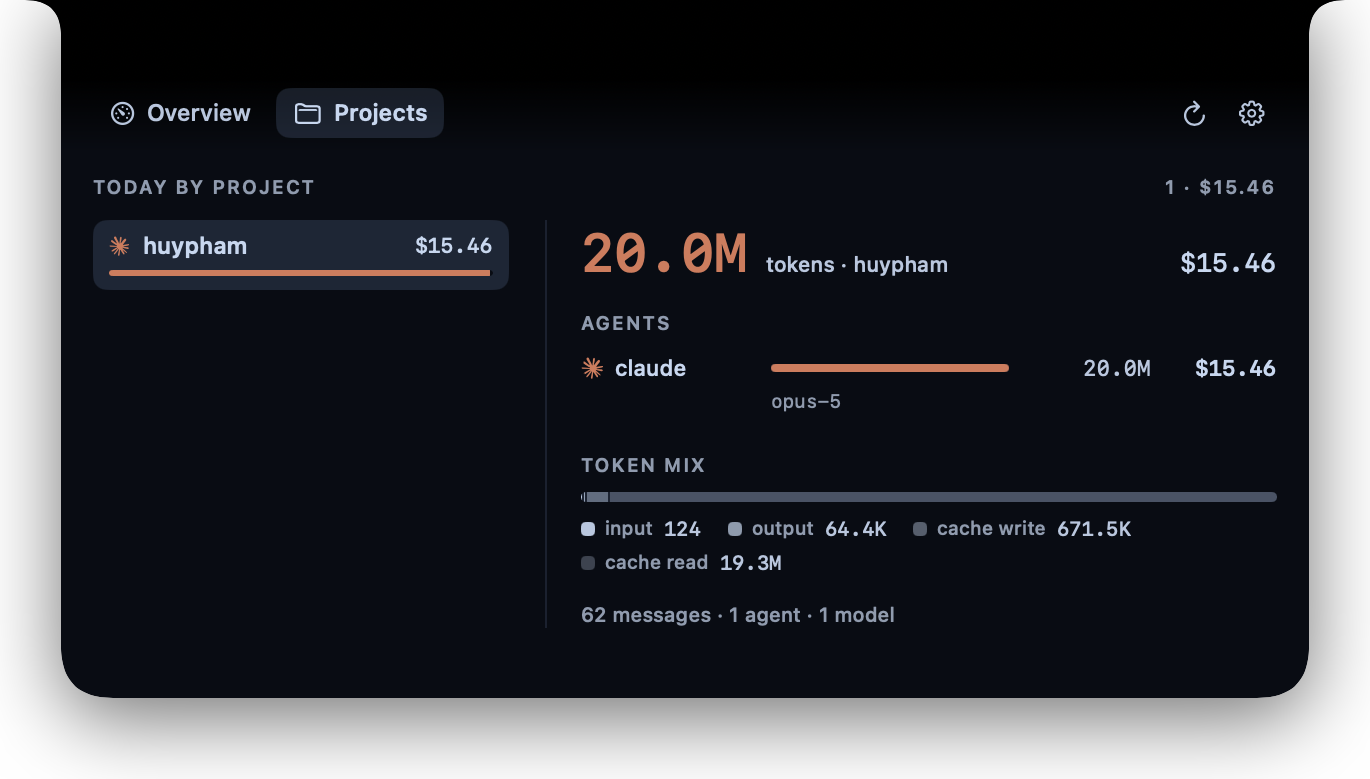
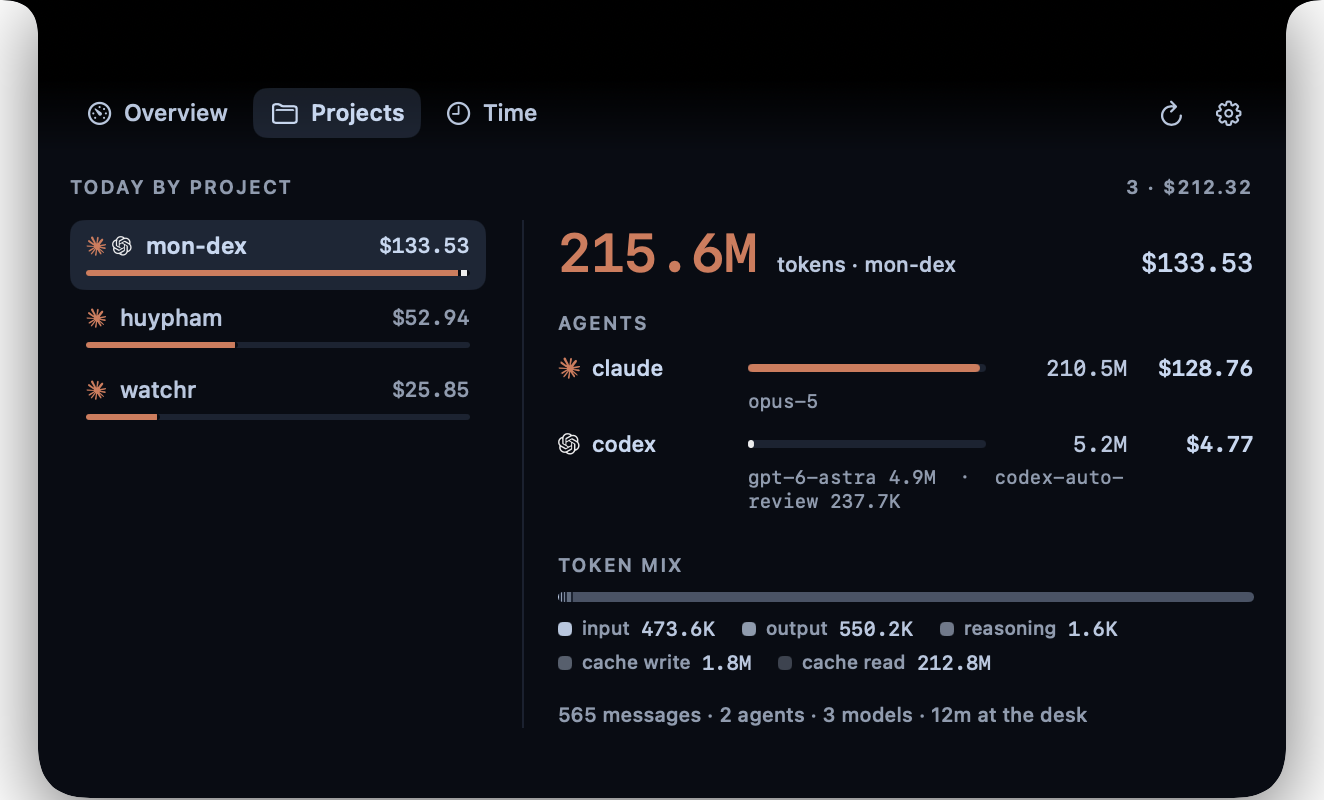
README and notes: the join, the grid, and the file that got eaten
Both stale screenshots retaken — Projects now carries "12m at the desk"
on its last line, and Time is shown over seven days with the weekday
grid under the day chart.

Taking that Projects shot found a regression from the same change:
putting the desk figure beside the hero wrapped the token count onto
two lines and truncated the project name. It sits with the other
derived facts in the footer now, which is where it belonged anyway.

Privacy gained the two claims it was missing: project attribution comes
from session files the agents write, never from watching windows, and
the call check asks CoreAudio whether the input device is running — a
fact about the device, so no consent and no orange dot. No audio is
ever opened, and it could not be.

The notes gained three sections, the first of which is the one worth
reading: a schema change ate a real history file, because Swift's
generated Decodable ignores property defaults and the loader answered
by starting over.

Changed region(s): [[0.0, 0.0, 1.0, 1.0], [0.4026, 0.2773, 0.7122, 0.4929]]

diff --git a/Sources/NotchMon/UI/ProjectsPage.swift b/Sources/NotchMon/UI/ProjectsPage.swift
@@ -184,16 +184,6 @@ private struct ProjectDetail: View {
                 .lineLimit(1)
                 .truncationMode(.middle)
             Spacer(minLength: 8)
-            if desk > 0 {
-                Text(desk.clockText)
-                    .font(Typeface.number(13, weight: .medium))
-                    .monospacedDigit()
-                    .foregroundStyle(Palette.secondaryText)
-                Text("at the desk")
-                    .font(Typeface.label(10))
-                    .foregroundStyle(Palette.faintText)
-                    .padding(.trailing, 4)
-            }
             Text(project.cost.money)
                 .font(Typeface.number(13, weight: .medium))
                 .monospacedDigit()
@@ -231,10 +221,14 @@ private struct ProjectDetail: View {
         let models = project.modelCount
         var line = "\(project.messages) messages · \(agents) agent\(agents == 1 ? "" : "s")"
             + " · \(models) model\(models == 1 ? "" : "s")"
-        // Quoted only past a quarter of an hour. Ten minutes at the desk turns
-        // any spend into a rate that sounds like a salary and means nothing.
+        // Here rather than beside the figure above it. The hero row is tokens,
+        // name and cost, and a fourth item wrapped the number onto two lines
+        // and truncated the name — the derived facts belong together anyway.
+        if desk > 0 { line += " · \(desk.clockText) at the desk" }
+        // The rate only past a quarter of an hour. Ten minutes turns any spend
+        // into a number that sounds like a salary and means nothing.
         if desk >= 15 * 60 {
-            line += " · \((project.cost / (desk / 3600)).money) an hour at the desk"
+            line += " · \((project.cost / (desk / 3600)).money) an hour"
         }
         return line
     }

diff --git a/docs/notes.md b/docs/notes.md
@@ -161,3 +161,52 @@ off in a week.
   interrupting are two different consents and only the second one is annoying.
   Under it, the loudest size allowed is itself a choice, so someone who never
   wants the panel can cap it at the pill.
+
+## A schema change ate the history file
+
+Swift's generated `Decodable` **ignores property defaults**. A missing key
+throws, whatever `= [:]` says in the declaration — which means every field ever
+added to `WorkDay` silently invalidated every day written before it. The loader
+was forgiving and answered by starting over, and the next save overwrote the
+file. Adding per-project seconds destroyed a real one that way.
+
+- **The fix that matters is not the decoder.** `WorkDay` now decodes field by
+  field with `decodeIfPresent`, so a new field is additive and old days come
+  back missing it — which is what they are. But the file is also **moved aside**
+  before starting over now. Starting over is still right; refusing to launch
+  would cost the tab entirely. It must simply never be the same act as deleting
+  the evidence, and one rename is the whole difference between losing a chart
+  and losing the data behind it.
+- **Anything Codable that a user's data lands in wants the same treatment.**
+  Quota history has the identical shape and the identical trap.
+
+## Where an hour goes
+
+Desk time is attributed to a project by the session file that was written to
+most recently, keyed by `ProjectUsage.canonical` — the same key the Projects
+page folds its buckets under, because an hour and a dollar must land in the same
+bucket before either can be divided into the other.
+
+- **Claude names its session directory after the workspace** and encodes the
+  path into that name, so the path is the answer. **Codex files by date** and
+  keeps `cwd` inside the file, so the file is read once and remembered.
+- A tick with no agent writing anywhere is left **unattributed** rather than
+  filed under a guess, which is why the parts never sum to the day. The CSV
+  names the remainder rather than dropping it.
+- The whole thing needs no new permission and no new watcher: these are the
+  files `AgentActivity` is already told about.
+
+## Standing down during a call
+
+`kAudioDevicePropertyDeviceIsRunningSomewhere` on the default **input** device
+is a fact about the device rather than about what is being recorded, so it needs
+no microphone consent and raises no prompt.
+
+- **A rung reached during a call is not marked as fired.** Deferring the nudge
+  would deliver a stale one — forty minutes of meeting and the hour arrives at a
+  hundred minutes still saying "1h00m". The rung stays due, and whatever is
+  current fires on the first tick afterwards.
+- It cannot tell a meeting from a voice memo, and it reads true for as long as
+  *any* app holds the input — one that never lets go would silence the reminders
+  for good. Hence a switch rather than a law, a log line on every change so a
+  silence can be traced, and an unreadable device counting as "not a call".

diff --git a/README.md b/README.md
@@ -67,15 +67,17 @@ the window that runs out soonest, and a year of activity.
 
 **Projects** — today's spend split by repository, then by agent, then by model,
 with the token mix underneath. Cache reads are usually most of the volume, and a
-bare token count hides that.
+bare token count hides that. The last line carries the join: how long you were
+at the desk on this project, and what an hour of it cost.
 
-<img src="docs/images/projects.png" width="700" alt="Projects: huypham at $15.46, 20.0M tokens, claude on opus-5, token mix showing 19.3M cache read against 124 input.">
+<img src="docs/images/projects.png" width="700" alt="Projects: mon-dex at $133.53 worked by both claude and codex, 215.6M tokens, token mix showing 212.8M cache read, and a footer reading 565 messages, 2 agents, 3 models, 12m at the desk.">
 
 **Time** — how long today ran, when it ran, and how long the longest unbroken
 stretch was. The strip carries the same figure all day, so the third hour is not
-a surprise at the end of it.
+a surprise at the end of it. Past a week it also draws the weekday grid: which
+hours of which days the work actually happens in.
 
-<img src="docs/images/time.png" width="700" alt="Time: 5h12m at the desk today, a bar per clock hour with the peak at 18:00, longest unbroken stretch 2h00m, 18 separate sits, first at the desk 13:39.">
+<img src="docs/images/time.png" width="700" alt="Time over seven days: 35m at the desk today, a bar per day with yesterday at 6h42m against an average of 3h38m, a weekday-by-hour grid whose busiest cell is Thursday 18:00, and the day's figures below.">
 
 **Breaks** — the reminder that scales with the risk. At thirty minutes the mark
 beside the figure changes and nothing opens; at an hour the notch itself grows
@@ -211,6 +213,15 @@ keyboard and mouse have been idle, whether the screen is locked and whether the
 display is awake, and nothing else. It never records what you were doing, only
 that you were there.
 
+Which project an hour belongs to comes from the session files the agents write
+on your machine — the same files tokscale already reads — and never from
+watching windows or typing.
+
+To know whether you are on a call it asks CoreAudio one question: **is the input
+device running**. That is a fact about the device, not about what is being
+recorded, so there is no microphone consent and no orange dot. Nothing is
+listened to, and it cannot be — no audio is ever opened.
+
 ## Build from source
 
 ```sh
@@ -233,7 +244,9 @@ no background.
 [docs/notes.md](docs/notes.md) — why the notch illusion needs two things rather
 than one, how a window's length is *measured* rather than guessed, why samples
 are admitted by time and never by value, which evidence sets the break intervals
-and which sources were rejected, and the rest of what was learned the hard way.
+and which sources were rejected, why a day's file must be moved aside rather
+than rewritten when it cannot be read, and the rest of what was learned the hard
+way.
 
 ## Stargazers
 
